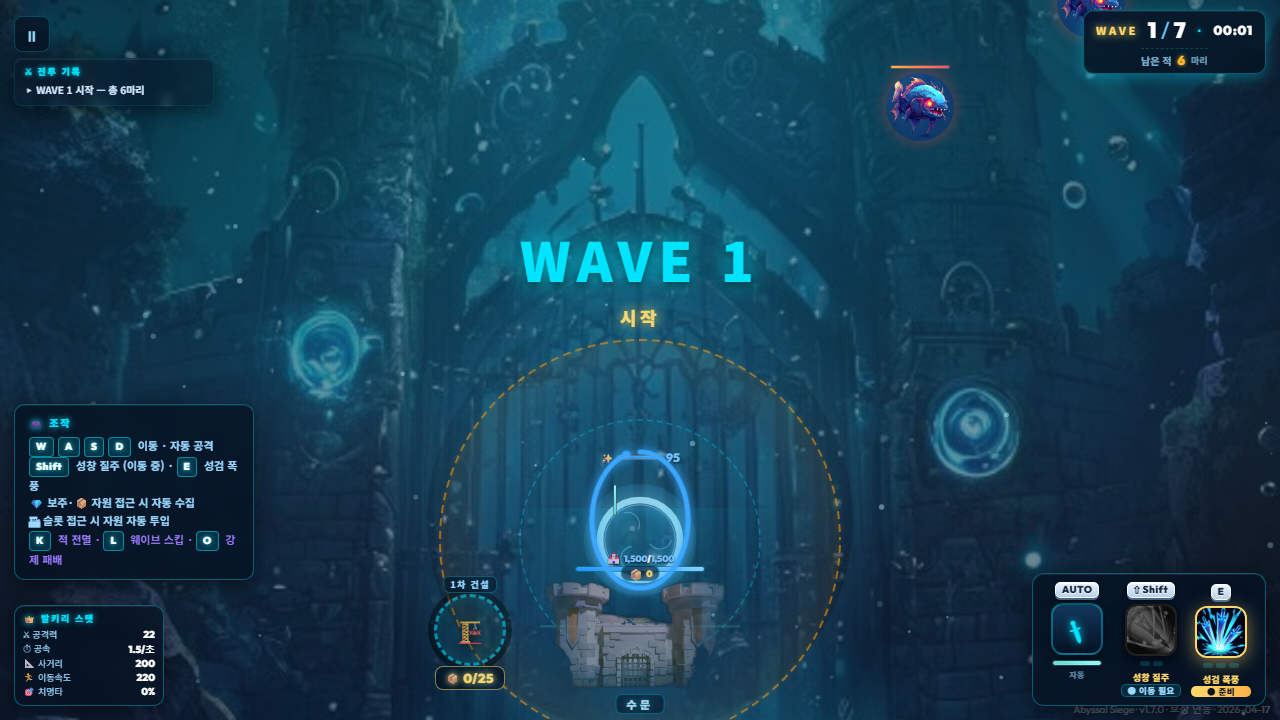
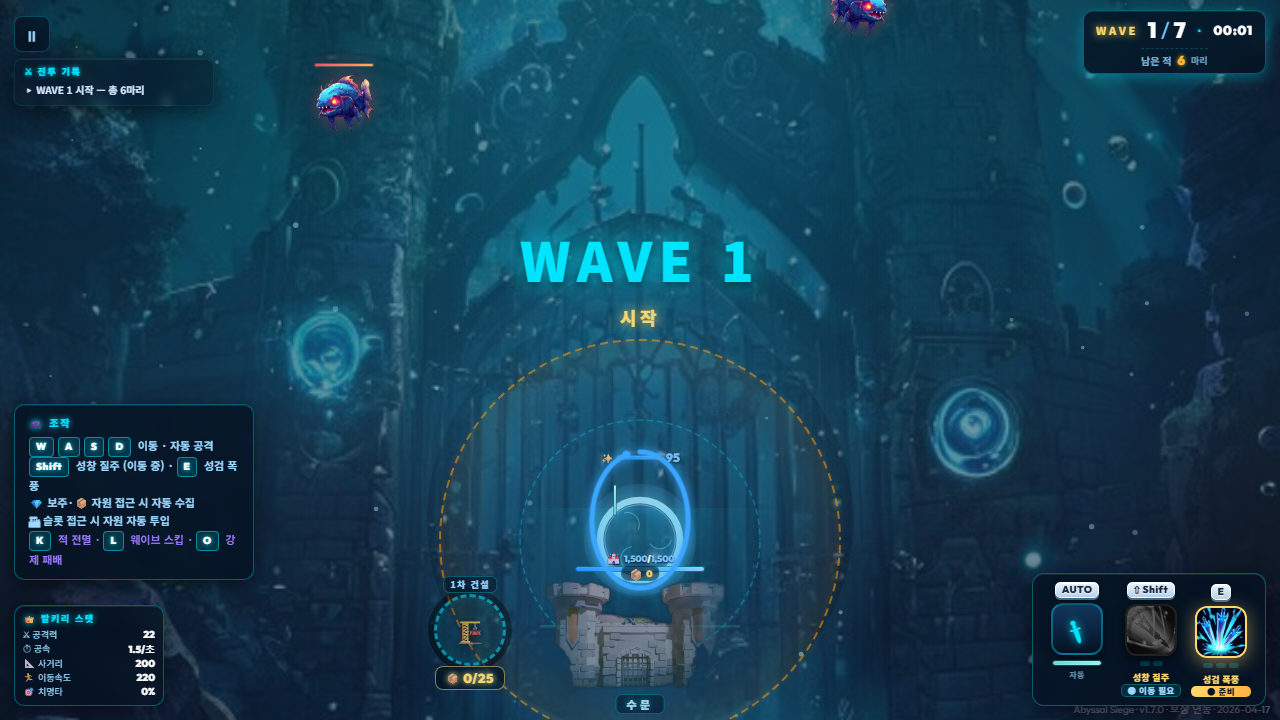
auto: update [18:54]

diff --git a/index.html b/index.html
@@ -2909,19 +2909,19 @@ const TIER_CLASS={ normal:'normal', rare:'rare', epic:'epic' };
 const TIER_IMG={ normal:'items/resource_normal.png', rare:'items/resource_rare.png', epic:'items/resource_epic.png' };
 
 const ENEMY_DEFS={
-  sogari:{name:'피라냐 고블린', hp:29, speed:160, r:34, img:'enemies/sogari.png', ai:'rush',     touchDmg:40, orbRate:0.28, size:68,
+  sogari:{name:'피라냐 고블린', hp:29, speed:160, r:34, img:'enemies_nobg/sogari.png', ai:'rush',     touchDmg:40, orbRate:0.28, size:68,
           drops:[{tier:'normal',w:75},{tier:'rare',w:22},{tier:'epic',w:3}]},
-  bangeo:{name:'어인 기사',     hp:80, speed:90,  r:40, img:'enemies/bangeo.png', ai:'straight', touchDmg:70, orbRate:0.22, size:80,
+  bangeo:{name:'어인 기사',     hp:80, speed:90,  r:40, img:'enemies_nobg/bangeo.png', ai:'straight', touchDmg:70, orbRate:0.22, size:80,
           drops:[{tier:'normal',w:40},{tier:'rare',w:45},{tier:'epic',w:15}]},
-  gaori: {name:'투척 가오리', hp:45, speed:140, r:38, img:'enemies/gaori.png', ai:'hover_shoot', touchDmg:0, orbRate:0.30, size:76,
+  gaori: {name:'투척 가오리', hp:45, speed:140, r:38, img:'enemies_nobg/gaori.png', ai:'hover_shoot', touchDmg:0, orbRate:0.30, size:76,
           hoverY:300, shootInterval:3.0, projDmg:18, projSpeed:320,
           drops:[{tier:'normal',w:55},{tier:'rare',w:37},{tier:'epic',w:8}]},
-  agwi:  {name:'심해 오우거',  hp:180, speed:55,  r:48, img:'enemies/agwi.png',   ai:'straight', touchDmg:120, orbRate:0.18, size:96,
+  agwi:  {name:'심해 오우거',  hp:180, speed:55,  r:48, img:'enemies_nobg/agwi.png',   ai:'straight', touchDmg:120, orbRate:0.18, size:96,
           drops:[{tier:'normal',w:20},{tier:'rare',w:50},{tier:'epic',w:30}]},
-  bokeo: {name:'폭발 슬라임',  hp:45,  speed:100, r:32, img:'enemies/bokeo.png',  ai:'rush',     touchDmg:35,  orbRate:0.35, size:64,
+  bokeo: {name:'폭발 슬라임',  hp:45,  speed:100, r:32, img:'enemies_nobg/bokeo.png',  ai:'rush',     touchDmg:35,  orbRate:0.35, size:64,
           explode:true, explodeR:100, explodeDmg:60,
           drops:[{tier:'normal',w:60},{tier:'rare',w:30},{tier:'epic',w:10}]},
-  kraken:{name:'해양 크라켄',  hp:1200, speed:30, r:70, img:'enemies/kraken.png',  ai:'boss',     touchDmg:200, orbRate:0, size:140,
+  kraken:{name:'해양 크라켄',  hp:1200, speed:30, r:70, img:'enemies_nobg/kraken.png',  ai:'boss',     touchDmg:200, orbRate:0, size:140,
           boss:true, phases:3,
           drops:[]},
 };
@@ -2929,47 +2929,47 @@ const ENEMY_DEFS={
 // 방어 시설 풀
 const FACILITY_POOL=[
   /* ── 일반 (회색) ── */
-  {id:'crossbow', name:'석궁 망루', rarity:'일반', kind:'facility', icon:'AS_Assets/facilities/facility_crossbow.png',
+  {id:'crossbow', name:'석궁 망루', rarity:'일반', kind:'facility', icon:'AS_Assets/facilities_nobg/facility_crossbow.png',
     desc:'적에게 빠르게 화살을 연사하는 공격 망루.',
     stats:[{icon:'⚔',label:'피해',val:'30'},{icon:'⏱',label:'공속',val:'0.8초'},{icon:'📐',label:'사거리',val:'280'}],
     range:280, cooldown:0.8, dmg:30, type:'projectile', projSpeed:520, projColor:'#aef'},
-  {id:'holy_well', name:'치유 야영지', rarity:'일반', kind:'facility', icon:'AS_Assets/facilities/facility_holywell.png',
+  {id:'holy_well', name:'치유 야영지', rarity:'일반', kind:'facility', icon:'AS_Assets/facilities_nobg/facility_holywell.png',
     desc:'주기적으로 발키리의 가호 게이지를 회복하는 야전 치유소.',
     stats:[{icon:'✨',label:'회복량',val:'가호 +10'},{icon:'⏱',label:'주기',val:'4.0초'}],
     range:0, cooldown:4.0, healAmount:10, type:'heal', projColor:'#7cc4ff'},
 
   /* ── 고급 (녹색) ── */
-  {id:'ballista', name:'원거리 망루', rarity:'고급', kind:'facility', icon:'AS_Assets/facilities/facility_ballista.png',
+  {id:'ballista', name:'원거리 망루', rarity:'고급', kind:'facility', icon:'AS_Assets/facilities_nobg/facility_ballista.png',
     desc:'마법 볼트를 발사해 경로상의 모든 적을 관통한다.',
     stats:[{icon:'⚔',label:'피해',val:'110'},{icon:'⏱',label:'공속',val:'2.2초'},{icon:'📐',label:'사거리',val:'420'}],
     range:420, cooldown:2.2, dmg:110, type:'pierce', projSpeed:580, projColor:'#81c784'},
-  {id:'frost_spirit', name:'빙결 탑', rarity:'고급', kind:'facility', icon:'AS_Assets/facilities/facility_frost.png',
+  {id:'frost_spirit', name:'빙결 탑', rarity:'고급', kind:'facility', icon:'AS_Assets/facilities_nobg/facility_frost.png',
     desc:'얼음 마법으로 범위 내 모든 적의 이동속도를 감소시킨다.',
     stats:[{icon:'❄',label:'감속',val:'-25%'},{icon:'⏱',label:'주기',val:'2.5초'},{icon:'📐',label:'사거리',val:'300'}],
     range:300, cooldown:2.5, slowDur:3.0, type:'debuff', projColor:'#90caf9'},
 
   /* ── 희귀 (파란) ── */
-  {id:'mortar', name:'마법구 포탑', rarity:'희귀', kind:'facility', icon:'AS_Assets/facilities/facility_mortar.png',
+  {id:'mortar', name:'마법구 포탑', rarity:'희귀', kind:'facility', icon:'AS_Assets/facilities_nobg/facility_mortar.png',
     desc:'마법 구체를 발사해 착탄 지점에 광역 폭발을 일으킨다.',
     stats:[{icon:'💥',label:'피해',val:'85 (광역)'},{icon:'⏱',label:'공속',val:'1.8초'},{icon:'📐',label:'사거리',val:'380'}],
     range:380, cooldown:1.8, dmg:85, type:'mortar', splashR:130, shellSpeed:320, projColor:'#ffb347'},
-  {id:'barrier', name:'수호 요새', rarity:'희귀', kind:'facility', icon:'AS_Assets/facilities/facility_barrier.png',
+  {id:'barrier', name:'수호 요새', rarity:'희귀', kind:'facility', icon:'AS_Assets/facilities_nobg/facility_barrier.png',
     desc:'방패 결계를 펼쳐 주기적으로 수문 내구도를 회복하고 보호한다.',
     stats:[{icon:'🏰',label:'회복량',val:'내구도 +15'},{icon:'⏱',label:'주기',val:'5.0초'}],
     range:0, cooldown:5.0, healAmount:15, type:'gate_heal', projColor:'#26ffe9'},
 
   /* ── 고유 (보라) ── */
-  {id:'lightning_orb', name:'뇌전 요새', rarity:'고유', kind:'facility', icon:'AS_Assets/facilities/facility_lightning.png',
+  {id:'lightning_orb', name:'뇌전 요새', rarity:'고유', kind:'facility', icon:'AS_Assets/facilities_nobg/facility_lightning.png',
     desc:'요새의 마법진에서 번개를 방출해 최대 3명의 적에게 연쇄 공격한다.',
     stats:[{icon:'⚡',label:'피해',val:'55 ×3연쇄'},{icon:'⏱',label:'공속',val:'2.0초'},{icon:'📐',label:'사거리',val:'340'}],
     range:340, cooldown:2.0, dmg:55, type:'chain', chainCount:3, projColor:'#e040fb'},
-  {id:'holy_amplifier', name:'성광 첨탑', rarity:'고유', kind:'facility', icon:'AS_Assets/facilities/facility_amplifier.png',
+  {id:'holy_amplifier', name:'성광 첨탑', rarity:'고유', kind:'facility', icon:'AS_Assets/facilities_nobg/facility_amplifier.png',
     desc:'황금 첨탑에서 성스러운 빛을 발산해 건설된 모든 방어 시설의 공격력을 강화한다. 1기만 건설 가능.',
     stats:[{icon:'⬆',label:'강화',val:'전체 시설 공격력 +30%'},{icon:'🔒',label:'제한',val:'최대 1기'}],
     range:99999, cooldown:99999, type:'buff', buffAmount:0.30, projColor:'#e040fb', maxCount:1},
 
   /* ── 전설 (주황) ── */
-  {id:'valk_wrath', name:'발키리 망루', rarity:'전설', kind:'facility', icon:'AS_Assets/facilities/facility_wrath.png',
+  {id:'valk_wrath', name:'발키리 망루', rarity:'전설', kind:'facility', icon:'AS_Assets/facilities_nobg/facility_wrath.png',
     desc:'발키리의 날개가 깃든 망루에서 신성한 포격으로 전장 전체에 강력한 광역 폭발을 일으킨다.',
     stats:[{icon:'💥',label:'피해',val:'180 (광역)'},{icon:'⏱',label:'공속',val:'3.5초'},{icon:'📐',label:'사거리',val:'전체'}],
     range:1280, cooldown:3.5, dmg:180, type:'siege', splashR:200, shellSpeed:280, projColor:'#ff9800'},
